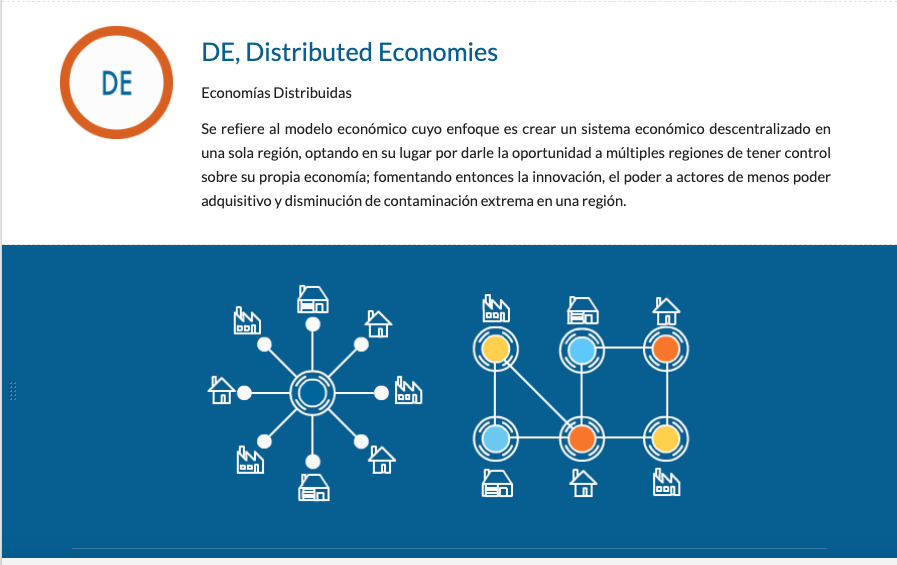
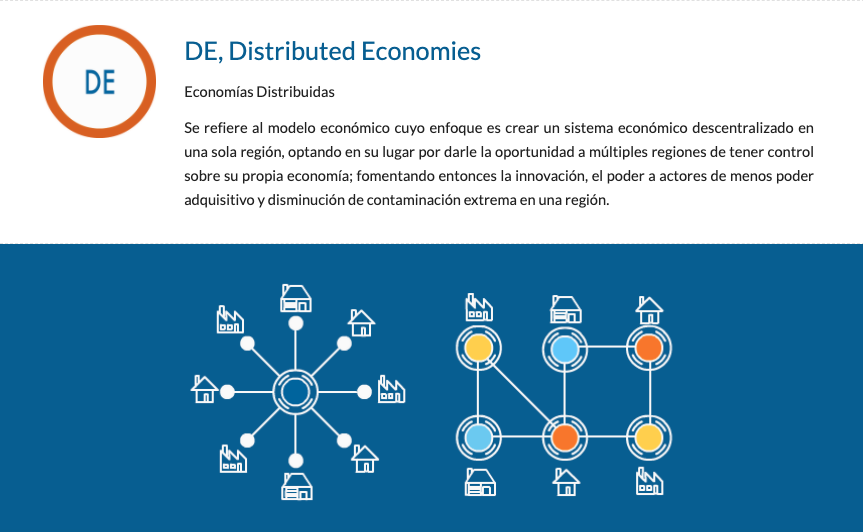
formato de disenio completado y formulario funcionando

diff --git a/diseno.html b/diseno.html
@@ -51,26 +51,29 @@
 
 
       <div class="row">
-        <div class="col-md-12 flotante" id="f-1" style="display:none;">
+        <div class="col-md-12 flotante cuerpo-1" id="f-1" style="display:none;">
           <div id="close" class="float-end m-3" ><a href="javascript:cerrar('f-1');"><img src="img/close.png" alt="boton-x"></a></div>
-          <h2 class="text-center Titulo-2 mt-4">SDO Toolkit</h2>
+          <h2 class="text-center Titulo-1 mt-4">SDO Toolkit</h2>
           <p>Lorem ipsum dolor sit amet Velit rerum dolore, sed tempora esse amet aperiam a cumque culpa assumenda laboriosam nisi placeat deleniti, numquam voluptates accusamus. Lorem ipsum dolor, sit amet consectetur adipisicing elit. Nulla neque aliquid ipsam numquam distinctio error, magni, praesentium voluptatum quos, assumenda expedita eos para tenmer una recusandae. Adipisci alias expedita fuga.</p>
+          <img src="/img/imgPrub.png" class="mx-auto d-block " alt="imagen 1 totorial toolkit">
         </div>  
       </div>
 
             
       <div class="row">
-        <div class="col-md-12 flotante container" id="f-2" style="display:none;">
+        <div class="col-md-12 flotante cuerpo-1" id="f-2" style="display:none;">
           <div id="close" class="float-end m-3" ><a href="javascript:cerrar('f-2');"><img src="img/close.png" alt="boton-x"></a></div>
-          <h2 class="text-center Titulo-2 mt-4">SDO Toolkit</h2>
+          <h2 class="text-center Titulo-1 mt-4">SDO Toolkit</h2>
           <p>Lorem ipsum dolor sit amet Velit rerum dolore, sed tempora esse amet aperiam a cumque culpa assumenda laboriosam nisi placeat deleniti, numquam voluptates accusamus. Lorem ipsum dolor, sit amet consectetur adipisicing elit. Nulla neque aliquid ipsam numquam distinctio error, magni, praesentium voluptatum quos, assumenda expedita eos para tenmer una recusandae. Adipisci alias expedita fuga.</p>
         </div>  
       </div>
 
-      <div class="row ">
+
+  <div class="cuerpo-1">
+      <div class="row  ">
         <div class="col-md-12 container px-5 pt-4 contenido1 cuerpo-1">
-          <h2 class="text-center Titulo-2">Casos de estudio</h2>
-          <h2 class="text-center Titulo-3-1">Uam Cuajimalpa</h2>
+          <h2 class="text-center Titulo-1">Casos de estudio</h2>
+          <h2 class="text-center Titulo-2-1">Uam Cuajimalpa</h2>
           <img src="/img/divider.png " class="col-md-12" alt="linea divisora">
         </div>  
       </div>
@@ -102,7 +105,7 @@
 
     <div class="row">
       <div class="col-md-12 container px-5 pt-4 contenido1 cuerpo-1">
-        <h2 class="text-center Titulo-3-1">En México</h2>
+        <h2 class="text-center Titulo-2-1">En México</h2>
         <img src="/img/divider.png " class="col-md-12" alt="linea divisora">
       </div>  
     </div>
@@ -130,6 +133,7 @@
     </div>
    </a>
   </div>
+ </div>
        <!--bibliotecas js extrernas-->
       <script src="js/div-casos.js"></script>
       <!--popper para ventas y botones emergentes, bootstrap.js-->

diff --git a/contacto.html b/contacto.html
@@ -48,9 +48,16 @@
       </nav>
       </div>
 
+      <div class="row">
+        <div class="col-md-12 container px-5 pt-4 contenido1 cuerpo-1">
+          <h2 class="text-center Titulo-1">Contacto</h2>
+          <p>Lorem ipsum dolor sit amet Velit rerum dolore, sed tempora esse amet aperiam a cumque culpa assumenda laboriosam nisi placeat deleniti, numquam voluptates accusamus. Lorem ipsum dolor, sit amet consectetur adipisicing elit. Nulla neque aliquid ipsam numquam distinctio error, magni, praesentium voluptatum quos, assumenda expedita eos para tenmer una recusandae. Adipisci alias expedita fuga.</p>
+        </div>  
+      </div>
+
     <div class="row pt-4 ">
     <aside class="col-md-3 " >
-        <div class="list-group " id="list-tab" role="tablist">
+        <div class="list-group contac " id="list-tab" role="tablist">
             <a class="list-group-item list-group-item-action active " id="list-home-list" data-bs-toggle="list" href="#list-home" role="tab" aria-controls="home">Información 1</a>
             <a class="list-group-item list-group-item-action" id="list-profile-list" data-bs-toggle="list" href="#list-profile" role="tab" aria-controls="profile">Información 2</a>
             <a class="list-group-item list-group-item-action" id="list-messages-list" data-bs-toggle="list" href="#list-messages" role="tab" aria-controls="messages">Información 3</a>
@@ -74,18 +81,18 @@
                 <form action="php/insert.php" method="POST">
                     <div class="mb-3">
                       <label for="exampleInputEmail1" class="form-label">Matricula</label>
-                      <input type="text" name="nombre" class="form-control" id="exampleInputPassword1" required>
+                      <input type="text" name="matricula" class="form-control" id="exampleInputPassword1" required>
                     </div>
                     <div class="mb-3">
-                      <label for="exampleInputPassword1" class="form-label">Correo</label>
+                      <label for="exampleInputPassword1" class="form-label">Email</label>
                       <input type="email" name="email" class="form-control" id="exampleInputEmail1" aria-describedby="emailHelp" required>
                     </div>
                     <div class="mb-3">
-                        <label for="exampleFormControlTextarea1" class="form-label">Carrera</label>
+                        <label for="exampleFormControlTextarea1" class="form-label">Asunto</label>
                         <textarea class="form-control" name="asunto" id="exampleFormControlTextarea1" rows="3" required></textarea>
                     </div>
                 
-                    <button type="submit" class="btn btn-primary">Enviar</button>
+                    <button type="submit" class="btn btn-primary btn-cont">Enviar</button>
                   </form>
 
             </div>

diff --git a/my_css/style.css b/my_css/style.css
@@ -22,14 +22,19 @@ button{
 }
 .b1{
     background-color: #f47b2d;
-    width: 150px;
+    width: 180px;
     margin-right: 10px;
     margin-bottom: 5px;
     border-radius: 5px;
     color: white;
+    font-family: 'Libre Franklin', sans-serif;
+    font-size: 14px;
+    font-weight: bold;
+    letter-spacing: 1.25pt;
 }
 .b1:hover{
     background-color: #e0620e;
+    color: white;
 }
 .contenido1{
     text-align: justify;
@@ -39,6 +44,17 @@ section{
     height:700PX; 
 }
 
+.contac .active{
+    background-color: #33709d;
+}
+.contac a:hover{
+    background-color: #33709d;
+    color: white;
+}
+
+.btn-cont{
+    background-color: #33709d;
+}
 
   /*ajuste de contenido home- - posicion y animacion*/
   .confeti{
@@ -78,27 +94,25 @@ section{
     font-family: 'Libre Franklin', sans-serif;
     text-align: center;
 }
-.Titulo-2{
+.Titulo-1{
     font-family: 'Big Shoulders Display', cursive;
     font-size: 84px;
     color: #1f6094;
+    letter-spacing: -1.5pt;
 }
-.Titulo-3{
+.Titulo-2{
     font-family: 'Big Shoulders Display', cursive;
     font-size: 53px;
     color: #1f6094;
+    letter-spacing: -.5pt;
 }
-.Titulo-3-1{
+.Titulo-2-1{
     font-family: 'Big Shoulders Display', cursive;
     font-size: 53px;
     color: #333333;
+    letter-spacing: -.5pt;
 }
 
-.Titulo-ex{
-    font-family: 'Big Shoulders Display', cursive;
-    font-size: 30px;
-    color: #333333;
-}
 .Titulo-deco{
     font-family: 'Big Shoulders Display', cursive;
     font-size: 30px;
@@ -106,27 +120,25 @@ section{
     border-radius: 5px;
     background-color:#f47b2d;
     text-align: center;
+    letter-spacing: .25pt;
 }
 .cuerpo-1{
     font-family: 'Libre Franklin', sans-serif;
     font-size: 16px;
     color: #333333;
+    letter-spacing: 0.5pt;
 }
 .Titulo-4{
     font-family: 'Big Shoulders Display', cursive;
     font-size: 30px;
     color:#333333;
+    letter-spacing: .25pt;
 }
 .Titulo-5{
     font-family: 'Big Shoulders Display', cursive;
     font-size: 21px;
     color:#333333;
-}
-
-.b1{
-    font-family: 'Libre Franklin', sans-serif;
-    font-size: 14px;
-    font-weight: bold;
+    letter-spacing: 0pt;
 }
 .cuerpo-1 p{
     padding-bottom: 5px;
@@ -137,6 +149,7 @@ ul.acorh {
 margin: 10px auto;
 margin-left: 20px;
 width: 100%;
+letter-spacing: .15pt;
 font-family: 'Big Shoulders Display', sans-serif;
 font-size: 21px;
 list-style-image: url("/img/Bullet2.png");

diff --git a/admin.html b/admin.html
@@ -25,22 +25,10 @@
           <div class="collapse navbar-collapse justify-content-end" id="navbarNav">
             <ul class="navbar-nav ">
               <li class="nav-item ">
-                <a class="nav-link"  href="index.html">HOME</a>
+                <a class="nav-link active"  href="admin.html">MUESTRA</a>
               </li>
               <li class="nav-item ">
-                <a class="nav-link"  href="acerca.html">ACERCA</a>
-              </li>
-              <li class="nav-item ">
-                <a class="nav-link"  href="diseno.html">DISEÑO</a><!--INFORMACION -METODOS --- PARA dISEÑO-->
-              </li>
-              <li class="nav-item ">
-                <a class="nav-link "  href="recursos.html">RECURSOS</a> <!--CASOS DE ESTUDIO ---- RECURSOS-->
-              </li>
-              <li class="nav-item">
-                <a class="nav-link active" href="investigacion.html">INVESTIGACIÓN</a>
-              </li>
-              <li class="nav-item">
-                <a class="nav-link" href="contacto.html">CONTACTO</a>
+                <a class="nav-link"  href="#">BORRA</a>
               </li>
             </ul>
           </div>
@@ -49,9 +37,15 @@
       </div>
       <div class="row">
         <div class="col-md-12 container px-5 pt-4 contenido1 cuerpo-1">
-          <h2 class="text-center Titulo-1">Investigación</h2>
-          <p>Lorem ipsum dolor sit amet Velit rerum dolore, sed tempora esse amet aperiam a cumque culpa assumenda laboriosam nisi placeat deleniti, numquam voluptates accusamus. Lorem ipsum dolor, sit amet consectetur adipisicing elit. Nulla neque aliquid ipsam numquam distinctio error, magni, praesentium voluptatum quos, assumenda expedita eos para tenmer una recusandae. Adipisci alias expedita fuga.</p>
+          <h2 class="text-center Titulo-1">Comentarios</h2>
+          <p class="text-center">Exporta en formato Excel haciendo click</p>
         </div>  
+
+        <form action="php/export.php" method="POST">
+          <input type="submit" class="btn b1" value="Submit">
+        </form> 
+      </form>
+
       </div>
 
 

diff --git a/recursos.html b/recursos.html
@@ -88,13 +88,13 @@
 
     <section class="col-md-9 pt-2" >
         <div class="container contenido1 cuerpo-1">
-            <h2 id="MSDS" class="Titulo-2">Proceso MSDS</h2>
+            <h2 id="MSDS" class="Titulo-1">Proceso MSDS</h2>
             <p >El método MSDS tiene como objetivo proveer apoyo y orientar para todo el proceso de desarrollo de sistemas orientados a la sustentabilidad. Su uso está pensado para diseñadores y compañías, pero también es apropiado para instituciones, ONGs y otro tipo de organizaciones.</p>
             <p>Está organizado en etapas, procesos y sub-procesos. Además es caracterizado por una estructura modular para poder adaptarse a las necesidades específicas de diseñadores y compañías, así como a diferentes contextos y condiciones. A continuación encontramos una lista completa de las diferentes etapas del método:</p>
             <div class="borde">
-            <h4 class="Titulo-3">Análisis estratégico</h4>
+            <h4 class="Titulo-2">Análisis estratégico</h4>
             <p>El propósito de esta etapa es obtener la información necesaria para facilitar la generación de ideas innovadoras para sistemas sustentables.</p>
-            <h4 class="Titulo-ex" id="mej_prac">Análisis de las mejores prácticas</h4>
+            <h4 class="Titulo-4" id="mej_prac">Análisis de las mejores prácticas</h4>
             <p>Durante esta etapa usamos la herramienta<a href="#"> SDO Toolkit.</a> </p> 
             <h4 class="Titulo-deco my-3">SDD Toolkit</h4>
             <p>Sustainability Design Orienting (SDO) Toolkit. Lit. Kit de herramientas Orientador para el Diseño Sustentable: es una herramienta cuyo objetivo es orientar el proceso de diseño hacia soluciones sustentables, capaz de asistir en varias tareas como el establecimiento de prioridades, visualizar potenciales mejoras a sistemas existentes, generar nuevas ideas para sistemas sustentables, analizar qué tan sustentable es una práctica, entre otras. Consiste de:</p>

diff --git a/acerca.html b/acerca.html
@@ -50,10 +50,10 @@
 
     <div class="row">
       <div class="col-md-12 container px-5 pt-4 contenido1 cuerpo-1">
-        <h2 class="text-center Titulo-2">Acerca</h2>
+        <h2 class="text-center Titulo-1">Acerca</h2>
         <p>Lorem ipsum dolor sit amet Velit rerum dolore, sed tempora esse amet aperiam a cumque culpa assumenda laboriosam nisi placeat deleniti, numquam voluptates accusamus. Lorem ipsum dolor, sit amet consectetur adipisicing elit. Nulla neque aliquid ipsam numquam distinctio error, magni, praesentium voluptatum quos, assumenda expedita eos para tenmer una recusandae. Adipisci alias expedita fuga.</p>
         <p>Lorem ipsum, dolor sit amet consectetur adipisicing elit. Amet ut omnis sequi aliquam rem, quaerat vitae assumenda accusamus repellat vel, officiis cupiditate.</p>
-        <h2 class="Titulo-3">Lineamientos</h2>
+        <h2 class="Titulo-2">Lineamientos</h2>
         <h3 class="Titulo-5">Capitulo1: Dispisiciones generales</h3>
         <P>ARTICULO 1. <span>Lorem ipsum dolor sit amet consectetur adipisicing elit. Odio est provident officia, totam delectus perferendis in mollitia quis autem aperiam eius ea, voluptate optio maiores eaque cupiditate assumenda, dolorem amet.</span></P>
         <P>ARTICULO 2. <span>Lorem ipsum dolor sit amet consectetuo est provident officia, totam delectus perferendis in mollitia quis autem aperiam eius ea, voluptate optio maiores eaque cupiditate assumenda, dolorem amet.</span></P>

diff --git a/my_css/style-casos.css b/my_css/style-casos.css
@@ -22,13 +22,12 @@
     position: absolute;
 }
 #close img:hover{
-    width: 40px;
+    width: 35px;
  
 }
 .flotante{
     z-index: 2;
     text-align: justify;
-    height: 100%;
     padding-left: 2%;
     padding-right: 2%;
     background-color: white;

diff --git a/php/insert.php b/php/insert.php
@@ -7,11 +7,11 @@ if (!$conn) {
  
 echo "Connected successfully";
 
-$nombre ="nombre";
+$matric =$_POST['matricula'];
 $email = $_POST['email'];
 $asunto = $_POST['asunto'];
 
-$sql = "INSERT INTO comentarios (Nombre, Correo, Asunto) VALUES ('$nombre', '$email', '$asunto')";
+$sql = "INSERT INTO comentarios (Matricula,Email,Asunto) VALUES ('$matric', '$email', '$asunto')";
 if (mysqli_query($conn, $sql)) {
       echo "New record created successfully";
 } else {
@@ -20,5 +20,5 @@ if (mysqli_query($conn, $sql)) {
 mysqli_close($conn);
 ?>
 <script> alert("Mensaje Registrado");
-location.href ="/Mostacho/contacto.html";
+location.href ="/contacto.html";
 </script>

diff --git a/php/export.php b/php/export.php
@@ -1,0 +1,24 @@
+<?php
+require "conect.php";
+// Check connection
+if (!$conn) {
+      die("Connection failed: " . mysqli_connect_error());
+}
+ 
+echo "Connected successfully";
+
+$sql = "SELECT * FROM comentarios";
+$result = $conn->query($sql);
+
+if ($result->num_rows > 0) {
+  // output data of each row
+  while($row = $result->fetch_assoc()) {
+    echo "id: " . $row["id"]. " - Name: " . $row["firstname"]. " " . $row["lastname"]. "<br>";
+  }
+} else {
+  echo "0 results";
+}
+mysqli_close($conn);
+
+mysqli_close($conn);
+?>

diff --git a/php/conect.php b/php/conect.php
@@ -1,8 +1,8 @@
 <?php /*concta con base de datos local y no del host web - ya se cambio el del hosting*/
 $servername = "localhost";
-$database = "prueba";
-$username = "root";
-$password = "Kinomoto76";
+$database = "u689962032_Prueba";
+$username = "u689962032_Guillermo";
+$password = "HostingLens21";
 
 $conn = mysqli_connect($servername, $username, $password, $database);
  
